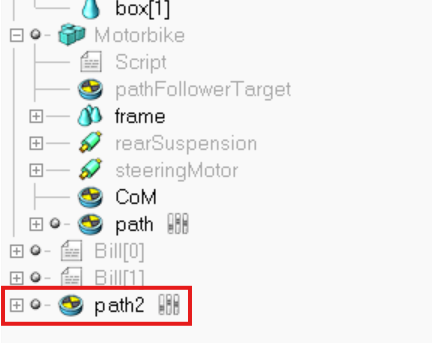
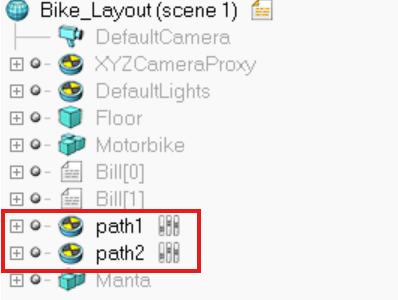
Orientation Error Work
Orientation error is a WIP. A coordinate frame issue currently exists.
Updated Pathinformation.png to reflect current simulation structure.

Changed region(s): [[0.0, 0.0, 0.6935, 0.99], [0.6332, 0.0, 0.6935, 0.09]]

diff --git a/CoppeliaBridge/CoppeliaBridge.py b/CoppeliaBridge/CoppeliaBridge.py
@@ -1,11 +1,12 @@
 #  python -m pip install coppeliasim-zmqremoteapi-client
 from coppeliasim_zmqremoteapi_client import RemoteAPIClient
 import numpy as np
+import math
 
 '''
 TODO:
 Path Error Determination:
-    Orientation Error
+    Orientation Error. There is currently a coordinate system issue here.
     
 
 Obstacle Positions:
@@ -14,6 +15,7 @@ Obstacle Positions:
 '''
 
 
+# This class is a bridge between Coppelia Sim and Python
 class CoppeliaBridge:
     def __init__(self,numPaths):
         self._initialized = True
@@ -74,8 +76,10 @@ class CoppeliaBridge:
         self._sim.stopSimulation()
         self._isRunning = False
 
-    #frame - the object who's frame the pose is returned relative to
     def getEgoPose(self, frame):
+        '''
+        Returns the vehicle's pose in a given frame
+        '''
         pos = self._sim.getObjectPosition(self._egoVehicle, frame)
         rot = self._sim.getObjectOrientation(self._egoVehicle, frame)
 
@@ -135,8 +139,10 @@ class CoppeliaBridge:
         '''
         return self._sim.getJointPosition(self._steerMotor)
         
-    #maxAngle - maximum steering angle in radians
     def setMaxSteerAngle(self,maxAngle = 0.523599):
+        '''
+        Set the maximum steering angle allowed, in radians
+        '''
         self._maxSteerAngle = maxAngle
 
     #Path Reference: https://manual.coppeliarobotics.com/en/paths.htm
@@ -157,6 +163,7 @@ class CoppeliaBridge:
     def getPathError(self, pathNum):
         '''
         Return the error relative to the closest point along the target path
+        Returns orientation error as the rotation error about the z axis.
         '''
         #Get the path info of the path in question
         pathPos = self._pathPositions[pathNum]
@@ -168,7 +175,22 @@ class CoppeliaBridge:
         nearestPoint = self._sim.getPathInterpolatedConfig(pathPos, pathLen, posAlongPath)#Convert the position along path to an XYZ position in the path's frame
         pathError = np.subtract(currPos,nearestPoint)
 
+        #Find Orientation Error relative to the chosen path
+        #Currently a coordinate system issue in orientation error. 
+        lookAhead = 0.1
+        nextPos = posAlongPath+lookAhead
+        #Compare to the final path position, wrap around if beyond that
+        if nextPos > pathPos[-1]:
+            nextPos = pathPos[0]
+        nextNearestPoint = self._sim.getPathInterpolatedConfig(pathPos, pathLen, nextPos)
+        
+        pathVector = np.subtract(nextNearestPoint,nearestPoint)
+        pathTrajectory = math.tan(pathVector[1]/pathVector[0])
+        orientErr = currOrient[2]-pathTrajectory
+        orientErr = currOrient[2]+math.pi
+        
         orientErr = None
+        
         return pathError,orientErr
     
     def getVehicleState(self):
@@ -187,9 +209,6 @@ class CoppeliaBridge:
         
         return vehState
     
-
-
-
     def __del__(self):
         '''
         Destructor
@@ -200,6 +219,3 @@ class CoppeliaBridge:
 
             self._initialized = False
         pass
-
-
-

diff --git a/TestScript.py b/TestScript.py
@@ -1,4 +1,5 @@
 from CoppeliaBridge.CoppeliaBridge import CoppeliaBridge
+import matplotlib.pyplot as plt
 
 bridge = CoppeliaBridge(2)
 bridge.startSimulation()
@@ -7,10 +8,11 @@ bridge.setSpeed(10)
 
 curTime = 0
 pathError = []
-while bridge._isRunning and (curTime<30):
+orientError = []
+while bridge._isRunning and (curTime<15):
     bridge.stepTime()
     curTime = bridge.getTime()
-    pathErrorT,_ = bridge.getPathError(bridge.activePath)
+    pathErrorT,orientErrorT = bridge.getPathError(bridge.activePath)
     
     #Simple Steering Controller for testing bridge functionality
     if pathErrorT[1] < 0:
@@ -18,7 +20,11 @@ while bridge._isRunning and (curTime<30):
     else:
         bridge.setSteering(0.2)
     pathError.append(pathErrorT)
+    orientError.append(orientErrorT)
 
 print("Time Elapsed!")
 print(bridge.getEgoPoseWorld())
 bridge.stopSimulation()
+
+#plt.plot(orientError)
+#plt.show()
